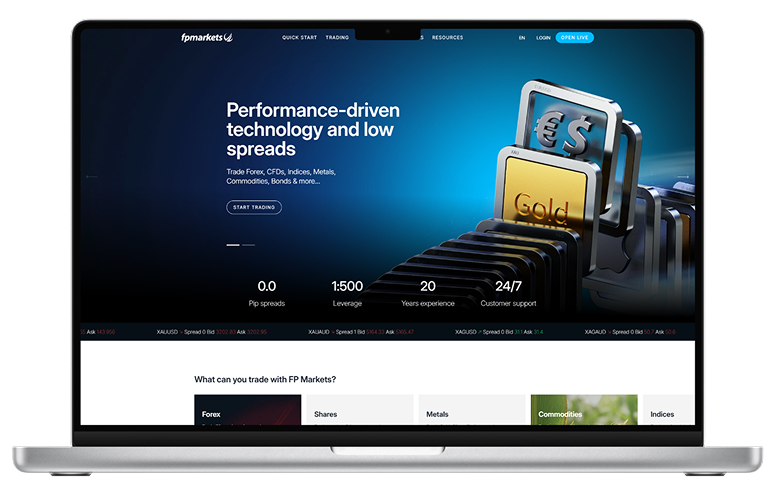
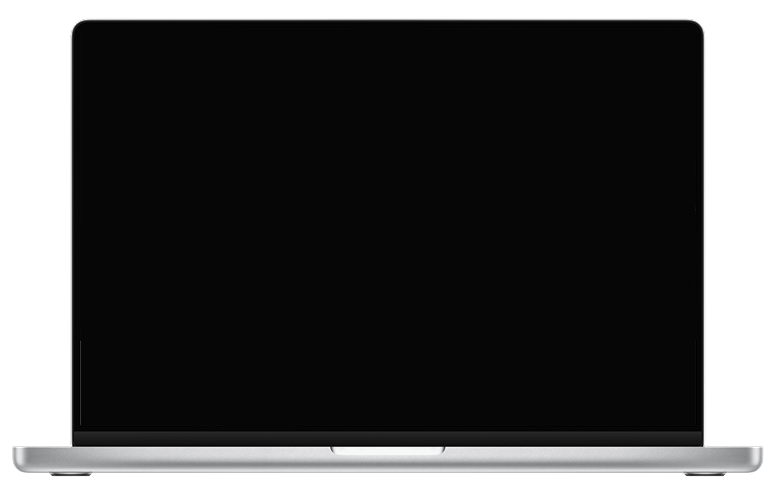
Added dynamic bannerUrl

diff --git a/components/web/broker-details/broker-details-hero.tsx b/components/web/broker-details/broker-details-hero.tsx
@@ -25,8 +25,8 @@ const StarIcon = ({ fillPercentage }: { fillPercentage: number }) => (
             <path d="M12.0006 18.26L4.94715 22.2082L6.52248 14.2799L0.587891 8.7918L8.61493 7.84006L12.0006 0.5L15.3862 7.84006L23.4132 8.7918L17.4787 14.2799L19.054 22.2082L12.0006 18.26Z" />
         </svg>
         {/* Filled Star (Yellow) clipped by width */}
-        <div 
-            className="absolute top-0 left-0 overflow-hidden h-full" 
+        <div
+            className="absolute top-0 left-0 overflow-hidden h-full"
             style={{ width: `${fillPercentage}%` }}
         >
             <svg
@@ -57,7 +57,7 @@ export default async function BrokerDetailsHero({ broker }: { broker: any }) {
         { value: broker.maxLeverage || 'N/A', label: 'Max Leverage' },
         { value: broker.totalInstruments || 'N/A', label: 'Instruments' },
     ];
-  const headerList = await headers()
+    const headerList = await headers()
 
     const websiteUrl = broker.broker_website || broker.url || '';
     const absoluteUrl = websiteUrl.startsWith('http') ? websiteUrl : `https://${websiteUrl}`;
@@ -73,7 +73,7 @@ export default async function BrokerDetailsHero({ broker }: { broker: any }) {
 
                     </div>
 
-                    <div className='grid grid-cols-[1fr_38%] items-center gap-10 py-5 px-[90px]'>
+                    <div className='grid grid-cols-[1fr_40%] items-center gap-10 py-5 px-[90px]'>
                         <div>
                             <div className='grid grid-cols-[65px_1fr] gap-3 pb-6'>
                                 <div className='w-[65px] h-[65px] rounded-full flex items-center justify-center border border-solid border-primary'>
@@ -100,7 +100,7 @@ export default async function BrokerDetailsHero({ broker }: { broker: any }) {
                                 ))}
                             </div>
                             <div className='flex items-center gap-3 pb-6 border-b border-solid border-border-light300'>
-                                {absoluteUrl&&<Link href={absoluteUrl} target='_blank' >
+                                {absoluteUrl && <Link href={absoluteUrl} target='_blank' >
                                     <button className='py-2.5 px-5 w-[200px] justify-center text-base font-medium text-black100 border-none bg-primary rounded-full cursor-pointer flex items-center gap-2'>
 
                                         Visit Website
@@ -120,20 +120,20 @@ export default async function BrokerDetailsHero({ broker }: { broker: any }) {
                                         <path d="M15.7367 21.6527L14 22L14.3473 20.2633C14.4179 19.9106 14.5913 19.5866 14.8456 19.3323L18.9111 15.2668C19.2668 14.9111 19.8437 14.9111 20.1995 15.2668L20.7332 15.8005C21.0889 16.1563 21.0889 16.7332 20.7332 17.0889L16.6677 21.1544C16.4134 21.4087 16.0894 21.5821 15.7367 21.6527Z" stroke="#121212" strokeWidth="1.5" strokeLinecap="round" strokeLinejoin="round" />
                                     </svg>
                                 </button> */}
-                                 <BrokerClaimButton broker={broker}>
-                                                  <Suspense fallback={<ProductListSkeleton />}>
-                                                    <PlanQuery
-                                                      checkoutData={{
-                                                        successUrl: `${headerList.get("origin")}/brokers/${broker.slug}?claimed=true`,
-                                                        cancelUrl: headerList.get("referer") || "",
-                                                        metadata: {
-                                                          brokerId: String(broker.id),
-                                                          type: "claim",
-                                                        },
-                                                      }}
-                                                    />
-                                                  </Suspense>
-                                                </BrokerClaimButton>
+                                <BrokerClaimButton broker={broker}>
+                                    <Suspense fallback={<ProductListSkeleton />}>
+                                        <PlanQuery
+                                            checkoutData={{
+                                                successUrl: `${headerList.get("origin")}/brokers/${broker.slug}?claimed=true`,
+                                                cancelUrl: headerList.get("referer") || "",
+                                                metadata: {
+                                                    brokerId: String(broker.id),
+                                                    type: "claim",
+                                                },
+                                            }}
+                                        />
+                                    </Suspense>
+                                </BrokerClaimButton>
                                 {/* <div className='bg-[#F0F1EC] w-[44px] h-[44px] flex items-center justify-center rounded-full cursor-pointer'>
                                     <svg xmlns="http://www.w3.org/2000/svg" width="24" height="24" viewBox="0 0 24 24" fill="none">
                                         <path d="M4 17.9808V9.70753C4 6.07416 4 4.25748 5.17157 3.12874C6.34315 2 8.22876 2 12 2C15.7712 2 17.6569 2 18.8284 3.12874C20 4.25748 20 6.07416 20 9.70753V17.9808C20 20.2867 20 21.4396 19.2272 21.8523C17.7305 22.6514 14.9232 19.9852 13.59 19.1824C12.8168 18.7168 12.4302 18.484 12 18.484C11.5698 18.484 11.1832 18.7168 10.41 19.1824C9.0768 19.9852 6.26947 22.6514 4.77285 21.8523C4 21.4396 4 20.2867 4 17.9808Z" stroke="#121212" strokeWidth="1.3" strokeLinecap="round" strokeLinejoin="round" />
@@ -142,30 +142,40 @@ export default async function BrokerDetailsHero({ broker }: { broker: any }) {
                                 </div> */}
                                 <BrokerBookmarkButton brokerId={broker.id} />
                             </div>
-                           {broker.overall_rating&& <div className='pt-6 flex items-center gap-2'>
+                            {broker.overall_rating && <div className='pt-6 flex items-center gap-2'>
                                 {/* <img src={Profilegroup} alt='Profilegroup' className='block' />
                                 <p className='text-base font-medium text-black700'>
                                     Trusted by <span className='text-primary'> 70K+ </span> investors & traders with a  <span className='text-primary'> 4.8 out of 5 </span> rating
                                 </p> */}
-                                 <div className='flex items-center gap-1 border border-[#1212120D]/95 bg-[#F0F2EC66]  rounded-full  px-4 py-1'>
-                                            {[...Array(5)].map((_, i) => {
-                                                const rating = parseFloat(broker.overall_rating || '0');
-                                                const fillPercentage = Math.min(100, Math.max(0, (rating - i) * 100));
-                                                return (
-                                                    <StarIcon 
-                                                        key={i} 
-                                                        fillPercentage={fillPercentage} 
-                                                    />
-                                                );
-                                            })}
-                                          <p className='text-base font-medium text-black700'>
-                                    Trusted with a  <span className='text-primary'> {broker.overall_rating}/5 </span> customer rating
-                                </p>
-                                        </div>
+                                <div className='flex items-center gap-1 border border-[#1212120D]/95 bg-[#F0F2EC66]  rounded-full  px-4 py-1'>
+                                    {[...Array(5)].map((_, i) => {
+                                        const rating = parseFloat(broker.overall_rating || '0');
+                                        const fillPercentage = Math.min(100, Math.max(0, (rating - i) * 100));
+                                        return (
+                                            <StarIcon
+                                                key={i}
+                                                fillPercentage={fillPercentage}
+                                            />
+                                        );
+                                    })}
+                                    <p className='text-base font-medium text-black700'>
+                                        Trusted with a  <span className='text-primary'> {broker.overall_rating}/5 </span> customer rating
+                                    </p>
+                                </div>
                             </div>}
                         </div>
-                        <div className="relative z-10 w-full ">
-                            <img src={FramImage} alt='FramImage' />
+                        <div className="relative z-10 w-full flex items-center justify-center">
+                            {/* The transparent laptop frame image on top */}
+                            <img src={FramImage} alt='Laptop Frame' className="relative z-20 w-full object-contain pointer-events-none" />
+
+                            {/* The dynamic screenshot positioned underneath the screen area */}
+                            {(broker.screenshotUrl || broker.bannerUrl) && (
+                                <img
+                                    src={(await getPresignedUrlFromFull(broker.screenshotUrl || broker.bannerUrl)) ?? ''}
+                                    alt="Broker Screenshot"
+                                    className="absolute z-[999] w-[75.5%] h-[82%] top-[5%] left-[12.2%] object-top"
+                                />
+                            )}
                         </div>
                     </div>
 